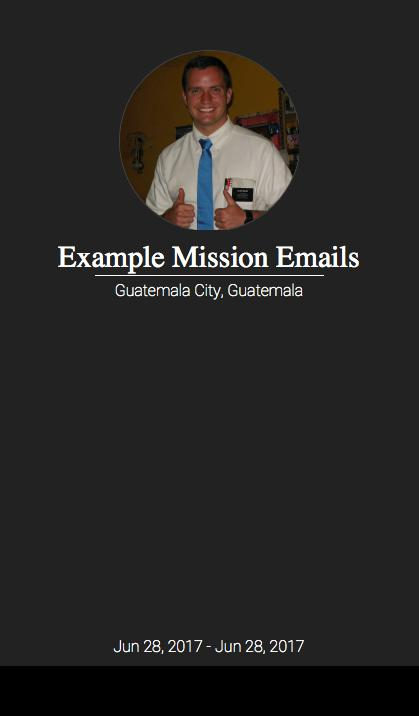
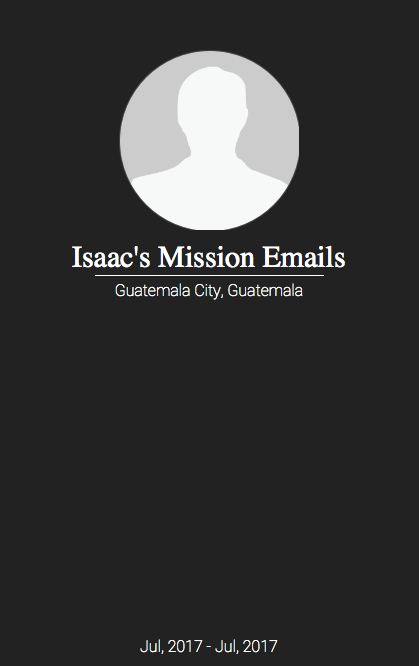
Tweaking some things related to the cover images

Changed region(s): [[0.1241, 0.0601, 0.8687, 0.4505], [0.0, 0.8709, 1.0, 1.0]]

diff --git a/shared/templates/covers/LowSquarePic.jsx b/shared/templates/covers/LowSquarePic.jsx
@@ -37,12 +37,12 @@ class LowSquarePic extends CoverBase {
     const defaultImage = {
       url: '/img/cover-images/field-standing.jpg',
       crop: {
-        x: 100,
-        y: 100,
-        natrualWidth: 1410,
-        natrualHeight: 1480,
-        width: imageWidth / 5,
-        height: imageHeight / 5,
+        height: 813,
+        naturalHeight: 945,
+        naturalWidth: 900,
+        width: 731,
+        x: 73,
+        y: 132,
       },
     };
 

diff --git a/shared/components/CompilationTitleForm.jsx b/shared/components/CompilationTitleForm.jsx
@@ -104,7 +104,7 @@ class CompilationTitleForm extends Component {
       <div className="col-md-12">
         <div className="form-group">
           <div className="text-center">
-            <label htmlFor="compilation-title">Cover Template</label>
+            <label htmlFor="compilation-title">Select a Cover Template</label>
           </div>
           <div className="row">
             <div className="col-md-3 col-sm-1 col-xs-0"></div>

diff --git a/shared/container/CompilationPreNextContainer.jsx b/shared/container/CompilationPreNextContainer.jsx
@@ -19,7 +19,6 @@ class CompilationPreNextContainer extends Component {
     }
   }
   compilationHasCoverTemplate() {
-    console.log(this.props.compilation);
     return !!(this.props.compilation.coverTemplate);
   }
   compilationHasEmails() {

diff --git a/shared/templates/covers/index.js b/shared/templates/covers/index.js
@@ -12,7 +12,7 @@ export default {
   options: [
     'BoxTitle',
     'BlackSpine',
-    'DarkPic',
+    // 'DarkPic',
     'LowSquarePic',
   ],
 };
